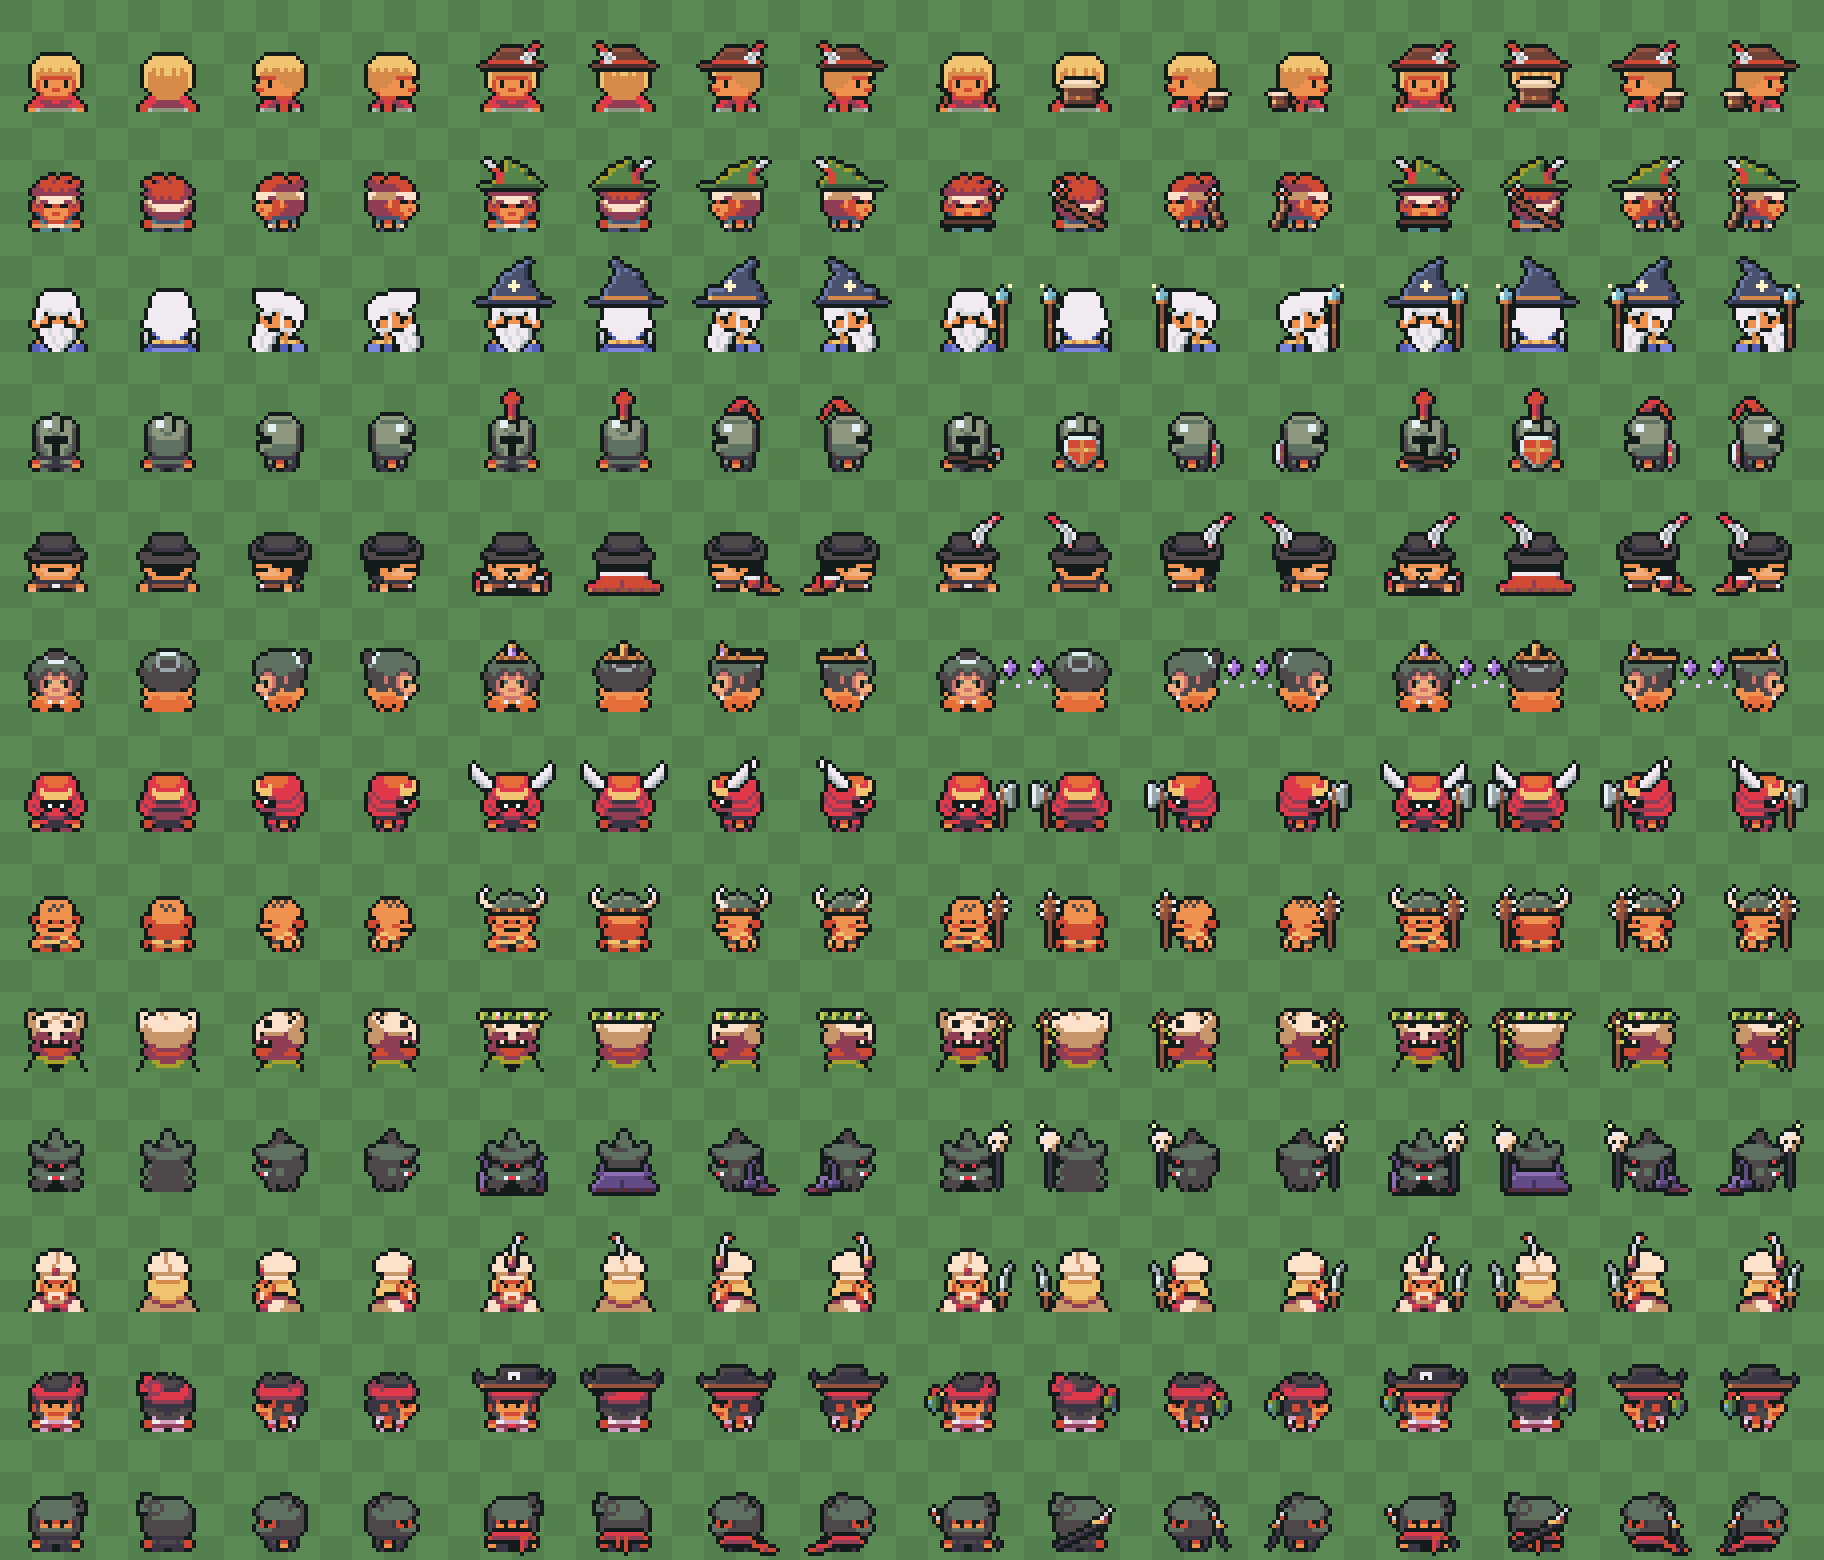
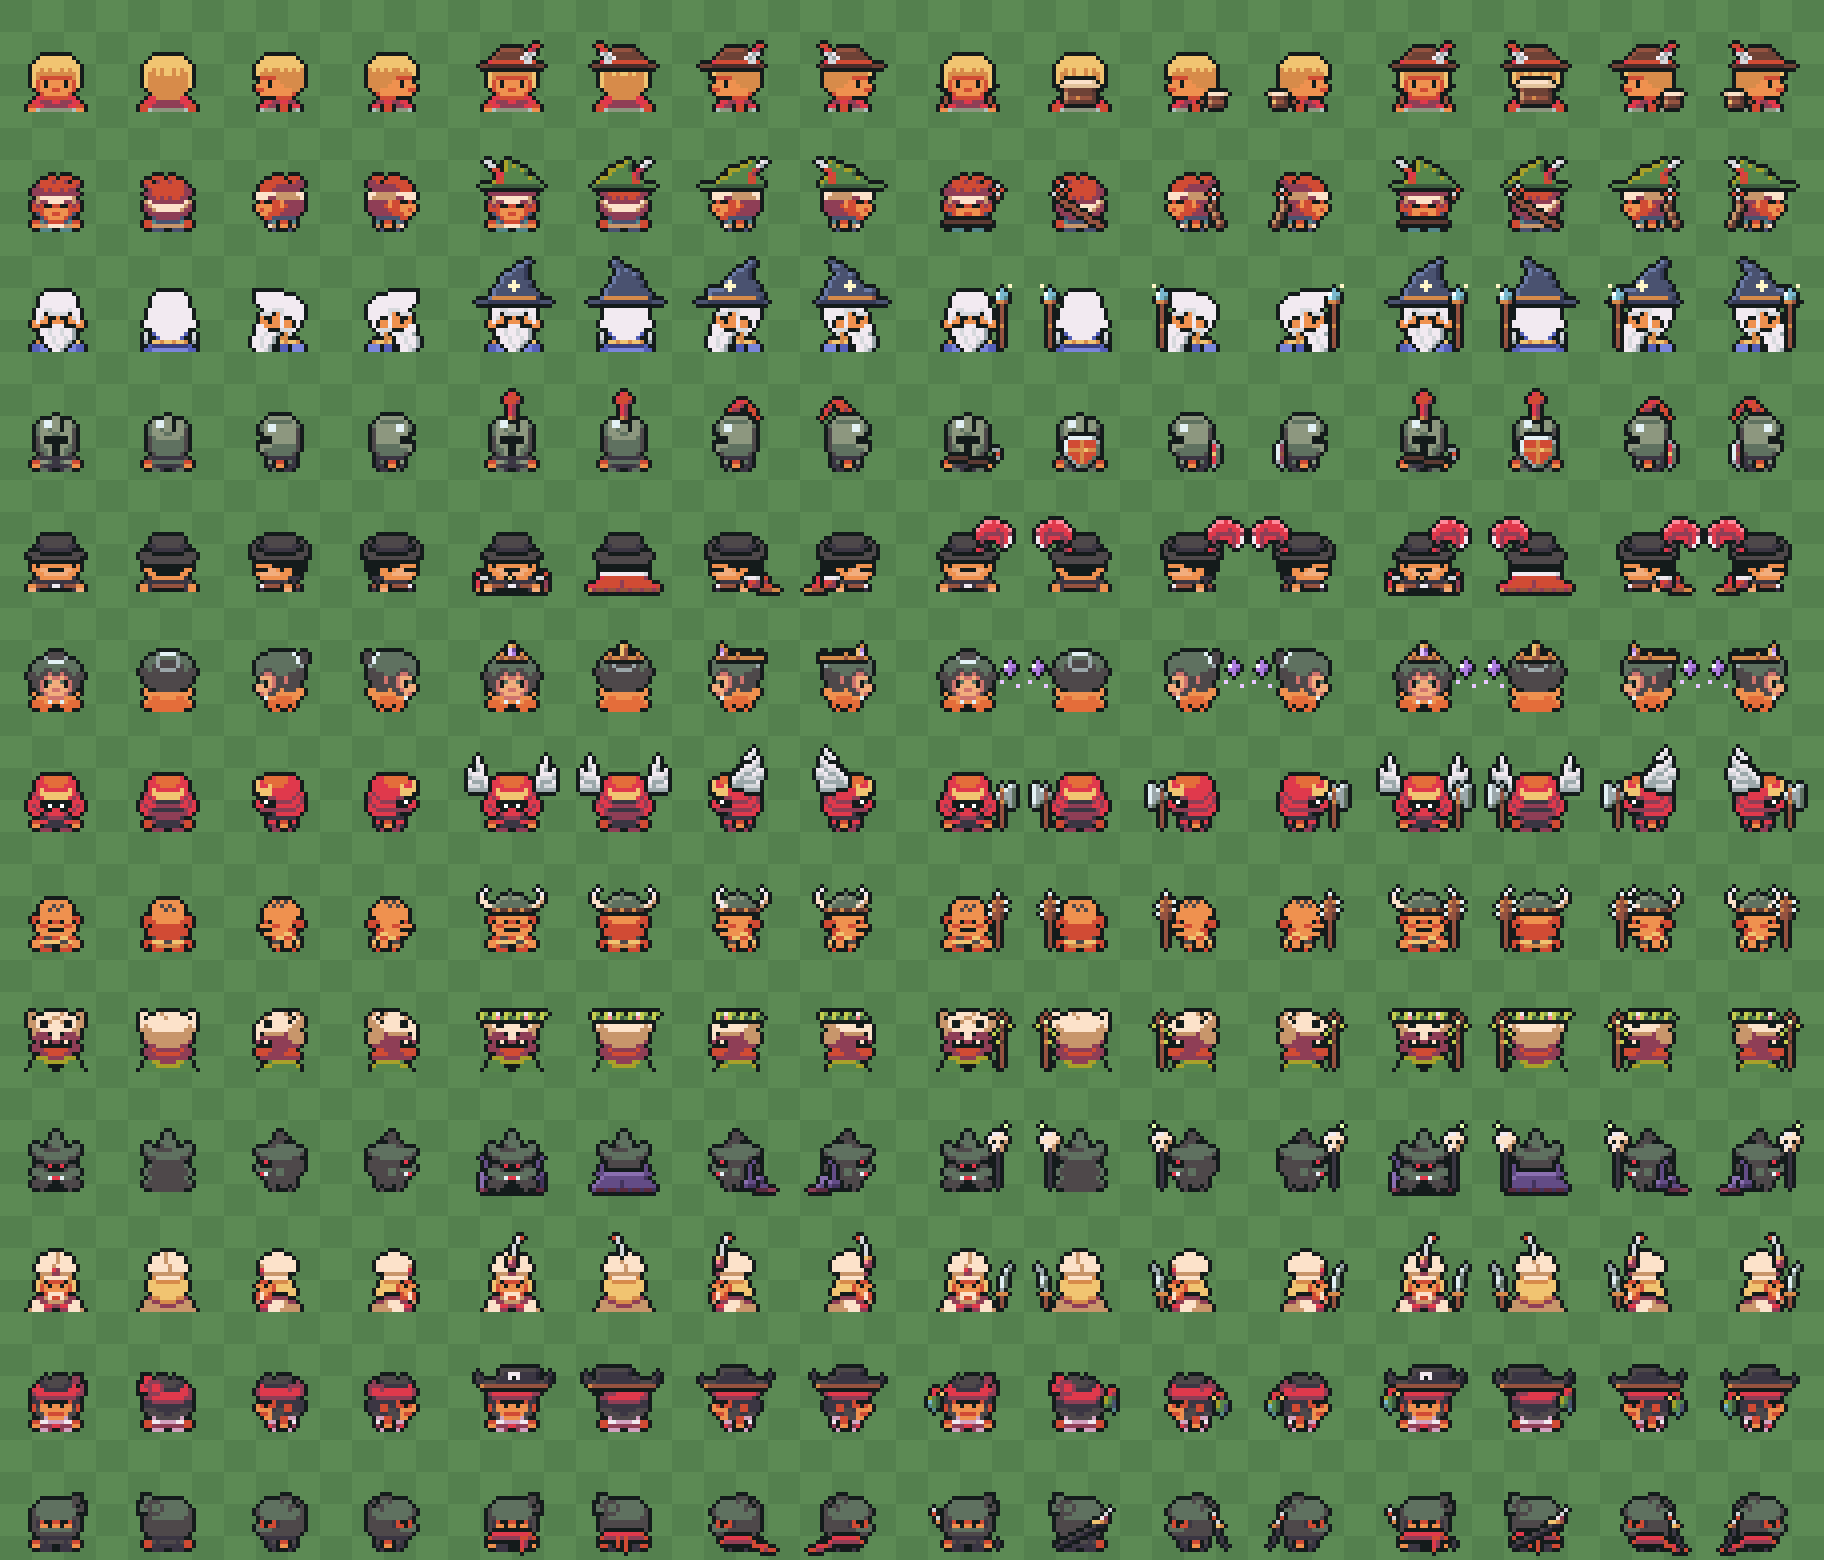
addons: asa em leque (guerreiro) e pluma macia (nobre) WIP

diff --git a/packages/shared/src/data/outfitsExtraTop.ts b/packages/shared/src/data/outfitsExtraTop.ts
@@ -9,10 +9,10 @@ export const ADDON_EXTRA_TOP: Record<string, number> = {
   cavaleiro_pluma: 6,
   cavaleiro_escudo: 0,
   nobre_capa: 0,
-  nobre_pena: 5,
+  nobre_pena: 4,
   invocador_diadema: 2,
   invocador_orbe: 0,
-  guerreiro_asas: 4,
+  guerreiro_asas: 7,
   guerreiro_machado: 0,
   barbaro_elmo: 3,
   barbaro_clava: 2,
